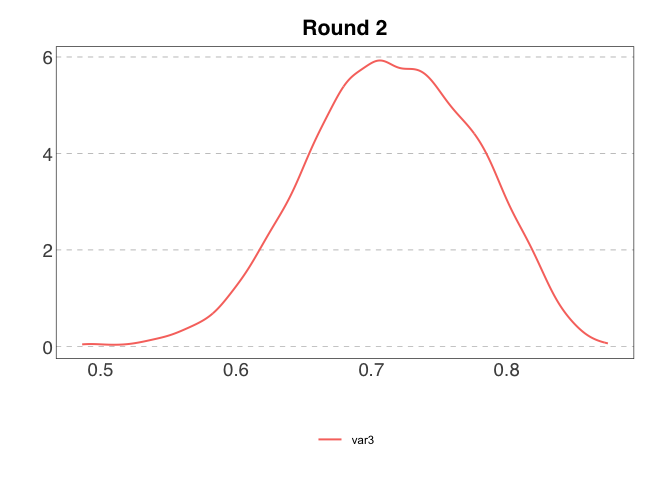
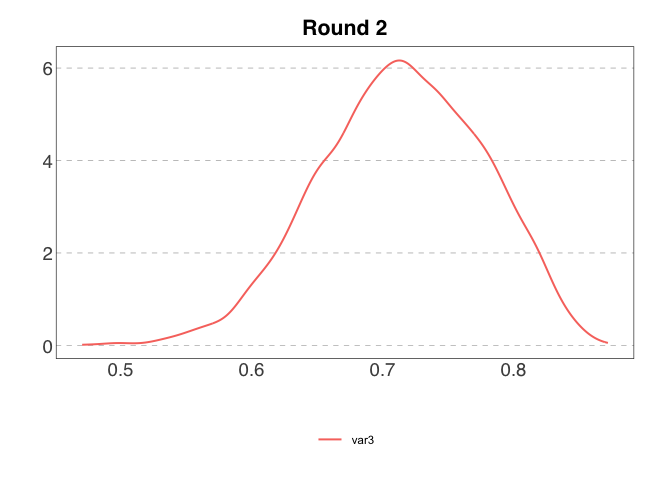
Change names of categor methods to (un)weighted.

diff --git a/README.md b/README.md
@@ -82,7 +82,37 @@ my_elic_cont
 ```
 
 Load the continuous data into the metadata object (round_1 and round_2
-data are provided as example datasets in the package):
+data are provided as example datasets in the package). This is how your
+data should look like before they are added to the metadata:
+
+``` r
+round_1
+#> # A tibble: 6 × 9
+#>   name         var1_best var2_min var2_max var2_best var3_min var3_max var3_best
+#>   <chr>            <int>    <int>    <int>     <int>    <dbl>    <dbl>     <dbl>
+#> 1 Derek Macle…         1       20       24        22     0.43     0.83      0.73
+#> 2 Christopher…         0        7       10         9     0.67     0.87      0.77
+#> 3 Mar'Quasa B…         0       10       15        12     0.65     0.95      0.85
+#> 4 Mastoora al…        -7        4       12         9     0.44     0.84      0.64
+#> 5 Eriberto Mu…        -5       13       18        16     0.38     0.88      0.68
+#> 6 Paul Bol             3       20       26        25     0.35     0.85      0.65
+#> # ℹ 1 more variable: var3_conf <int>
+
+round_2
+#> # A tibble: 6 × 9
+#>   name         var1_best var2_min var2_max var2_best var3_min var3_max var3_best
+#>   <chr>            <int>    <int>    <int>     <int>    <dbl>    <dbl>     <dbl>
+#> 1 Mar'Quasa B…        -2       15       21        18     0.62     0.82      0.72
+#> 2 Mastoora al…        -4       11       15        12     0.52     0.82      0.72
+#> 3 Eriberto Mu…         1       15       20        17     0.58     0.78      0.68
+#> 4 Derek Macle…         0       11       18        15     0.52     0.82      0.72
+#> 5 Christopher…        -2       14       18        15     0.55     0.85      0.75
+#> 6 Paul Bol             1       18       23        20     0.66     0.86      0.76
+#> # ℹ 1 more variable: var3_conf <int>
+```
+
+Load the data into the metadata object: Data can also be imported from a
+GoogleSheet. See the function documentation for more details.
 
 ``` r
 my_elic_cont <- cont_add_data(my_elic_cont,
@@ -160,16 +190,16 @@ samp_cont
 #> # A tibble: 18,000 × 3
 #>    id      var   value
 #>    <chr>   <chr> <dbl>
-#>  1 5ac97e0 var1      0
-#>  2 5ac97e0 var1      0
+#>  1 5ac97e0 var1      1
+#>  2 5ac97e0 var1     -2
 #>  3 5ac97e0 var1     -2
-#>  4 5ac97e0 var1      0
-#>  5 5ac97e0 var1      0
-#>  6 5ac97e0 var1      0
+#>  4 5ac97e0 var1     -2
+#>  5 5ac97e0 var1     -4
+#>  6 5ac97e0 var1     -2
 #>  7 5ac97e0 var1     -4
 #>  8 5ac97e0 var1     -2
 #>  9 5ac97e0 var1     -2
-#> 10 5ac97e0 var1     -2
+#> 10 5ac97e0 var1      1
 #> # ℹ 17,990 more rows
 ```
 
@@ -180,9 +210,9 @@ summary(samp_cont)
 #> # A tibble: 3 × 7
 #>   Var      Min     Q1 Median   Mean     Q3    Max
 #>   <chr>  <dbl>  <dbl>  <dbl>  <dbl>  <dbl>  <dbl>
-#> 1 var1  -4     -2     -2     -1.01   1      1    
-#> 2 var2  11.0   14.5   16.3   16.3   18.3   22.7  
-#> 3 var3   0.486  0.672  0.715  0.715  0.761  0.875
+#> 1 var1  -4     -2      0     -0.985  1      1    
+#> 2 var2  11.0   14.5   16.3   16.3   18.3   22.6  
+#> 3 var3   0.470  0.672  0.715  0.714  0.760  0.872
 ```
 
 And plotted as violin plots:
@@ -220,15 +250,15 @@ levels and options to islands in Vernet, M. et al. (2024).
 my_elic_cat <- cat_start(topics = c("Mechanism1",
                                     "Mechanism2",
                                     "Mechanism3"),
+                         options = c("option_1",
+                                     "option_2",
+                                     "option_3",
+                                     "option_4"),
                          categories = c("category_1",
                                         "category_2",
                                         "category_3",
                                         "category_4",
                                         "category_5"),
-                         options = c("option_1",
-                                     "option_2",
-                                     "option_3",
-                                     "option_4"),
                          experts = 6)
 #> ✔ <elic_cat> object for "Elicitation" correctly initialised
 
@@ -245,7 +275,22 @@ my_elic_cat
 ```
 
 Load the categorical data into the metadata object (topic_1, topic_2 and
-topic_3 data are provided as example datasets in the package):
+topic_3 data are provided as example datasets in the package):  
+Here is an example of data correctly formatted for an elicitation with
+two options and five categories (only one expert is shown):
+
+    name         option       category      confidence      estimate
+    ----------------------------------------------------------------
+    expert 1     option 1     category 1            15          0.08
+    expert 1     option 1     category 2            15          0
+    expert 1     option 1     category 3            15          0.84
+    expert 1     option 1     category 4            15          0.02
+    expert 1     option 1     category 5            15          0.06
+    expert 1     option 2     category 1            35          0.02
+    expert 1     option 2     category 2            35          0.11
+    expert 1     option 2     category 3            35          0.19
+    expert 1     option 2     category 4            35          0.02
+    expert 1     option 2     category 5            35          0.66
 
 ``` r
 my_elic_cat <- cat_add_data(my_elic_cat,
@@ -284,88 +329,88 @@ View the data stored in the elicitation object:
 cat_get_data(my_elic_cat,
              topic = "Mechanism1")
 #> # A tibble: 120 × 5
-#>    id      category   option   confidence estimate
-#>    <chr>   <chr>      <chr>         <dbl>    <dbl>
-#>  1 5ac97e0 category_1 option_1         15        8
-#>  2 5ac97e0 category_2 option_1         15        0
-#>  3 5ac97e0 category_3 option_1         15       85
-#>  4 5ac97e0 category_4 option_1         15        2
-#>  5 5ac97e0 category_5 option_1         15        5
-#>  6 5ac97e0 category_1 option_2         35        2
-#>  7 5ac97e0 category_2 option_2         35       11
-#>  8 5ac97e0 category_3 option_2         35       18
-#>  9 5ac97e0 category_4 option_2         35        2
-#> 10 5ac97e0 category_5 option_2         35       67
+#>    id      option   category   confidence estimate
+#>    <chr>   <chr>    <chr>           <dbl>    <dbl>
+#>  1 5ac97e0 option_1 category_1         15        8
+#>  2 5ac97e0 option_1 category_2         15        0
+#>  3 5ac97e0 option_1 category_3         15       85
+#>  4 5ac97e0 option_1 category_4         15        2
+#>  5 5ac97e0 option_1 category_5         15        5
+#>  6 5ac97e0 option_2 category_1         35        2
+#>  7 5ac97e0 option_2 category_2         35       11
+#>  8 5ac97e0 option_2 category_3         35       18
+#>  9 5ac97e0 option_2 category_4         35        2
+#> 10 5ac97e0 option_2 category_5         35       67
 #> # ℹ 110 more rows
 ```
 
-Data can be sampled from the elicitation object using the basic or
-bootstrap method:
+Data can be sampled from the elicitation object using the unweighted or
+weighted method:
 
 ``` r
-samp_cat_basic <- cat_sample_data(my_elic_cat,
+samp_cat_unweighted <- cat_sample_data(my_elic_cat,
                             topic = "Mechanism1",
-                            method = "basic")
-#> ✔ Data sampled successfully using "basic" method.
-samp_cat_basic
+                            method = "unweighted")
+#> ✔ Data sampled successfully using "unweighted" method.
+samp_cat_unweighted
 #> # A tibble: 2,400 × 7
 #>    id      option   category_1 category_2 category_3 category_4 category_5
 #>    <chr>   <chr>         <dbl>      <dbl>      <dbl>      <dbl>      <dbl>
-#>  1 5ac97e0 option_1     0.0710          0      0.870    0.0185      0.0400
-#>  2 5ac97e0 option_1     0.0886          0      0.819    0.0234      0.0695
-#>  3 5ac97e0 option_1     0.147           0      0.799    0.00641     0.0472
-#>  4 5ac97e0 option_1     0.0857          0      0.847    0.0207      0.0467
-#>  5 5ac97e0 option_1     0.104           0      0.822    0.00639     0.0678
-#>  6 5ac97e0 option_1     0.0499          0      0.836    0.0844      0.0296
-#>  7 5ac97e0 option_1     0.0858          0      0.834    0.00791     0.0722
-#>  8 5ac97e0 option_1     0.105           0      0.820    0.0309      0.0439
-#>  9 5ac97e0 option_1     0.0557          0      0.863    0.00943     0.0718
-#> 10 5ac97e0 option_1     0.0636          0      0.795    0.0351      0.106 
+#>  1 5ac97e0 option_1     0.0745          0      0.892    0.00889     0.0248
+#>  2 5ac97e0 option_1     0.0875          0      0.875    0.0129      0.0241
+#>  3 5ac97e0 option_1     0.0176          0      0.905    0.0127      0.0647
+#>  4 5ac97e0 option_1     0.0749          0      0.853    0.00418     0.0679
+#>  5 5ac97e0 option_1     0.107           0      0.838    0.0157      0.0390
+#>  6 5ac97e0 option_1     0.0538          0      0.883    0.00156     0.0619
+#>  7 5ac97e0 option_1     0.125           0      0.802    0.0139      0.0587
+#>  8 5ac97e0 option_1     0.104           0      0.858    0.00191     0.0370
+#>  9 5ac97e0 option_1     0.0524          0      0.840    0.0572      0.0503
+#> 10 5ac97e0 option_1     0.0699          0      0.875    0.00703     0.0478
 #> # ℹ 2,390 more rows
 
-samp_cat_bootstrap <- cat_sample_data(my_elic_cat,
+samp_cat_weighted <- cat_sample_data(my_elic_cat,
                             topic = "Mechanism3",
-                            method = "bootstrap")
-#> ✔ Data sampled successfully using "bootstrap" method.
-samp_cat_bootstrap
+                            method = "weighted")
+#> ✔ Data sampled successfully using "weighted" method.
+samp_cat_weighted
 #> # A tibble: 1,800 × 7
 #>    id      option   category_1 category_2 category_3 category_4 category_5
 #>    <chr>   <chr>         <dbl>      <dbl>      <dbl>      <dbl>      <dbl>
-#>  1 5ac97e0 option_1     0.0210    0.0170    0.0133        0.809     0.139 
-#>  2 5ac97e0 option_1     0.0103    0.0228    0.00143       0.894     0.0712
-#>  3 5ac97e0 option_1     0.0310    0.0397    0.0278        0.780     0.121 
-#>  4 5ac97e0 option_1     0.0451    0.0158    0.0110        0.830     0.0977
-#>  5 5ac97e0 option_1     0.0258    0.00895   0.0251        0.828     0.113 
-#>  6 5ac97e0 option_1     0.0463    0.0228    0.000724      0.840     0.0898
-#>  7 5ac97e0 option_1     0.0111    0.00310   0.0140        0.918     0.0542
-#>  8 5ac97e0 option_1     0.0106    0.00862   0.0128        0.897     0.0711
-#>  9 5ac97e0 option_1     0.0124    0.0361    0.0236        0.836     0.0917
-#> 10 5ac97e0 option_1     0.0462    0.0107    0.0131        0.821     0.109 
+#>  1 5ac97e0 option_1    0.0159     0.00579 0.00969         0.905     0.0635
+#>  2 5ac97e0 option_1    0.0117     0.0211  0.00396         0.830     0.133 
+#>  3 5ac97e0 option_1    0.00588    0.00733 0.000652        0.942     0.0442
+#>  4 5ac97e0 option_1    0.0192     0.0203  0.0161          0.914     0.0306
+#>  5 5ac97e0 option_1    0.0667     0.0233  0.00812         0.839     0.0633
+#>  6 5ac97e0 option_1    0.0231     0.0166  0.0303          0.870     0.0599
+#>  7 5ac97e0 option_1    0.0200     0.00851 0.00000405      0.856     0.116 
+#>  8 5ac97e0 option_1    0.00413    0.0248  0.00286         0.903     0.0652
+#>  9 5ac97e0 option_1    0.0150     0.00934 0.00539         0.913     0.0573
+#> 10 5ac97e0 option_1    0.0198     0.0162  0.00480         0.874     0.0853
 #> # ℹ 1,790 more rows
 ```
 
 And the sample summarised:
 
 ``` r
-summary(samp_cat_basic, option = "option_2")
+summary(samp_cat_unweighted, option = "option_2")
 #> # A tibble: 5 × 7
 #>   Category        Min     Q1 Median   Mean    Q3   Max
 #>   <chr>         <dbl>  <dbl>  <dbl>  <dbl> <dbl> <dbl>
-#> 1 category_1 0.000924 0.100  0.159  0.194  0.323 0.475
-#> 2 category_2 0.0180   0.0848 0.134  0.206  0.342 0.584
-#> 3 category_3 0.00532  0.115  0.208  0.223  0.290 0.607
-#> 4 category_4 0.000489 0.0264 0.0731 0.0953 0.144 0.407
-#> 5 category_5 0.000643 0.148  0.247  0.282  0.351 0.802
+#> 1 category_1 0.000914 0.0985 0.160  0.194  0.319 0.483
+#> 2 category_2 0.0145   0.0815 0.133  0.206  0.339 0.607
+#> 3 category_3 0.0130   0.122  0.212  0.226  0.289 0.620
+#> 4 category_4 0.000904 0.0276 0.0765 0.0963 0.145 0.354
+#> 5 category_5 0.000476 0.152  0.238  0.278  0.345 0.758
 ```
 
 And plotted as violin plots:
 
 ``` r
-plot(samp_cat_basic,
+plot(samp_cat_unweighted,
      title = "Sampled data for Mechanism1")
 ```
 
-<img src="man/figures/README-plot sampled data from categorical data - violin-1.png" alt="Density plot of the sampled data for variable 3." width="100%" />
+<img src="man/figures/README-sample-plot-categorical-data-violin-1.png" alt="Density plot of the sampled data for variable 3." width="100%" />
 
 ## Similar packages
 

diff --git a/tests/testthat/_snaps/cat_sample_data.md b/tests/testthat/_snaps/cat_sample_data.md
@@ -1,7 +1,7 @@
 # Errors
 
     Code
-      cat_sample_data("abc", method = "basic", topic = "topic_1")
+      cat_sample_data("abc", method = "unweighted", topic = "topic_1")
     Condition
       Error in `cat_sample_data()`:
       ! Invalid value for `x`:
@@ -11,7 +11,7 @@
 ---
 
     Code
-      cat_sample_data(obj, method = c("basic", "bootstrap"), topic = "topic_1")
+      cat_sample_data(obj, method = c("unweighted", "weighted"), topic = "topic_1")
     Condition
       Error in `cat_sample_data()`:
       ! Incorrect value for `method`:
@@ -31,15 +31,15 @@
 # Info
 
     Code
-      out <- cat_sample_data(obj, method = "basic", topic = "topic_1", option = c(
+      out <- cat_sample_data(obj, method = "unweighted", topic = "topic_1", option = c(
         "option_1", "option_2"), n_votes = 50)
     Message
-      v Data sampled successfully using "basic" method.
+      v Data sampled successfully using "unweighted" method.
 
 ---
 
     Code
-      out <- cat_sample_data(obj, method = "bootstrap", topic = "topic_1")
+      out <- cat_sample_data(obj, method = "weighted", topic = "topic_1")
     Message
-      v Data sampled successfully using "bootstrap" method.
+      v Data sampled successfully using "weighted" method.
 
